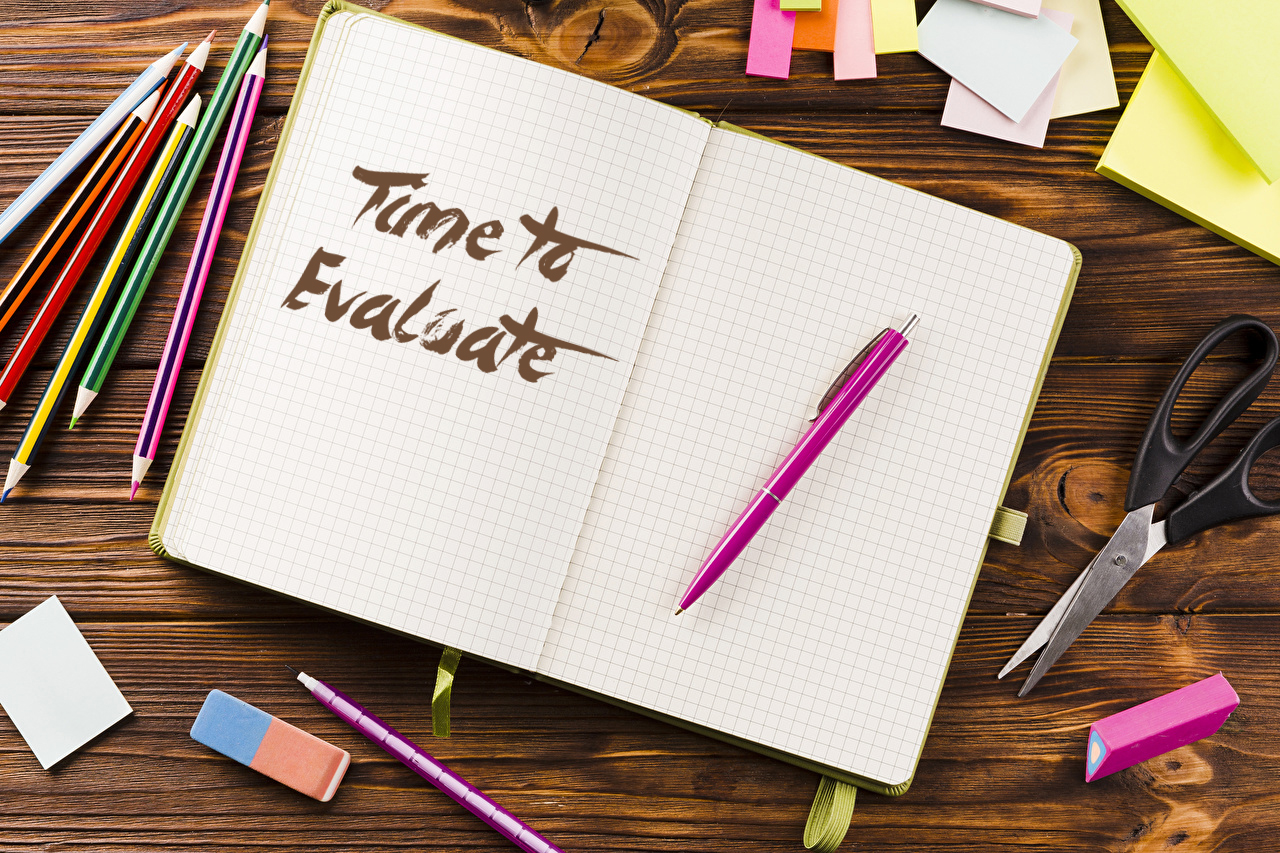
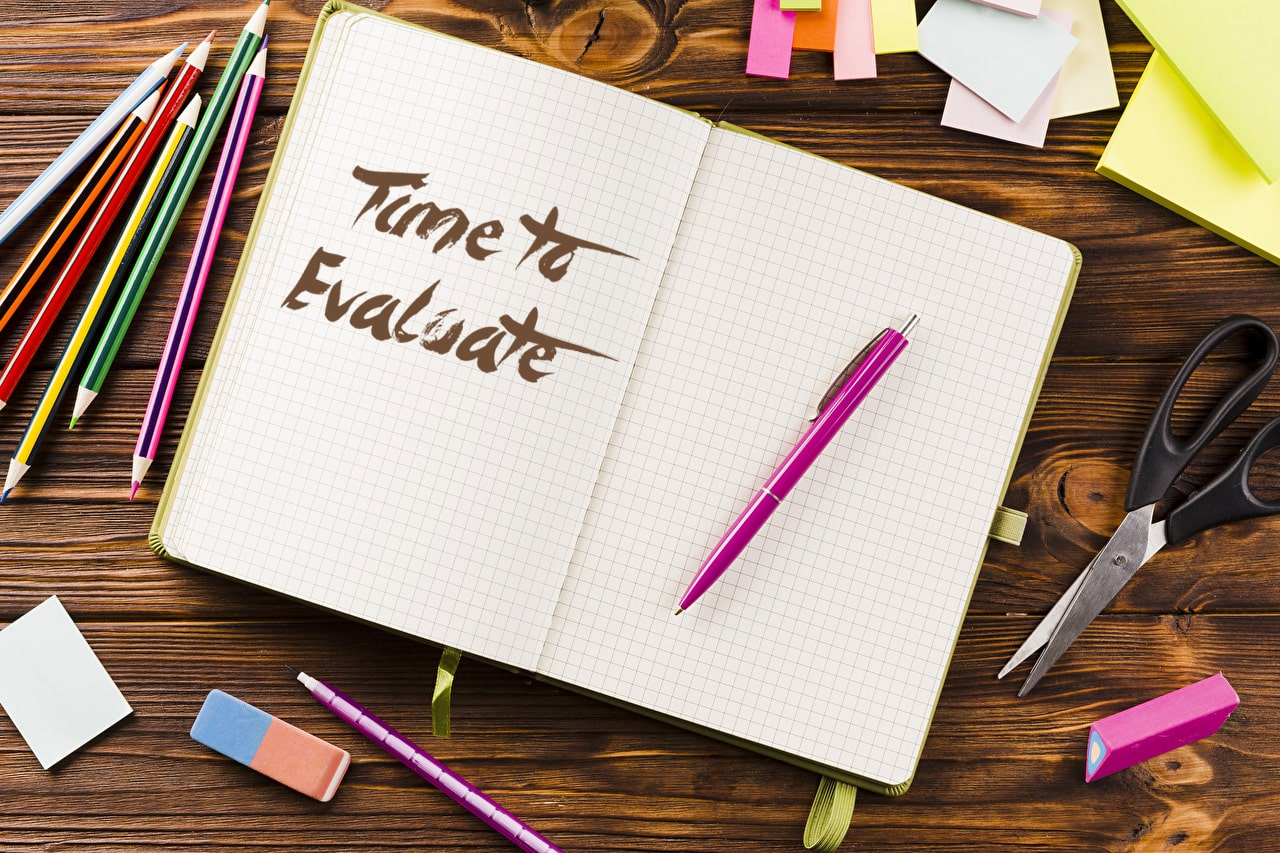
login design not finished. compress images

diff --git a/public/css/custom/login/login.min.css b/public/css/custom/login/login.min.css
@@ -1,1 +1,1 @@
-.background{opacity:.8;pointer-events:none;position:fixed;width:100%;height:100vh;z-index:-1}.login{min-height:100vh;width:100vw;background-position:center}.custom-row{position:relative;z-index:0;padding:7% 0;background-color:rgba(233,219,193,.5)}.custom-col{justify-content:center}.w-border{border:solid}.cntr-custom{position:relative;top:6vmin}.form-control{background-color:#e9dbc1!important}.btn-login{margin-top:4vh;width:25%;background-color:#e9dbc1;border-color:#014421;color:#000}.btn-login:hover{background-color:#014421;border-color:#014421;color:#e9dbc1}.form-background{box-shadow:0 0 8px 2px rgba(0,0,0,.8);background:#7b1113;width:80%;padding:6% 9%}.form-background label{color:#e9dbc1;font-size:2rem}.form-background span{color:#e9dbc1}.form-background small{color:#e9dbc1;font-style:italic;font-size:1.2rem}.form-background a:hover{text-decoration:underline}.form-background i{color:#e9dbc1;font-size:2rem;position:absolute;bottom:2vh;left:50%;transform:translateX(-50%)}.r-content{margin:0 2%;display:flex;flex-direction:column;justify-content:center;align-items:center;text-align:center}.r-content img{width:50vmin}.r-content bold{font-size:4.5vmin;font-weight:500;font-family:Raleway,sans-serif}.r-content .days,.r-content .time{font-family:'Noto Serif JP',serif;font-weight:400;font-size:10vmin}.r-content .closed{font-size:12vmin;font-weight:600;font-family:Raleway,sans-serif}
+.background{opacity:.8;pointer-events:none;position:fixed;width:100%;height:100vh;z-index:-1}.login{min-height:100vh;width:100vw;background-position:center}.custom-row{position:relative;z-index:0;padding:7% 0;background-color:rgba(233,219,193,.5)}.custom-col{justify-content:center}.w-border{border:solid}.cntr-custom{position:relative;top:6vmin}.form-control{background-color:#e9dbc1!important}.btn-login{margin-top:4vh;width:25%;background-color:#e9dbc1;border-color:#014421;color:#000}.btn-login:hover{background-color:#014421;border-color:#014421;color:#e9dbc1}.form-background{box-shadow:0 0 8px 2px rgba(0,0,0,.8);background:#7b1113;width:80%;padding:6% 9%}.form-background label{color:#e9dbc1;font-size:2rem}.form-background span{color:#e9dbc1}.form-background small{color:#e9dbc1;font-style:italic;font-size:1.2rem}.form-background a:hover{text-decoration:underline}.form-background i{color:#e9dbc1;font-size:2rem;position:absolute;bottom:2vh;left:50%;transform:translateX(-50%)}.r-content{margin:0 2%;display:flex;flex-direction:column;justify-content:center;align-items:center;text-align:center}.stopwatch{margin:auto;width:50%;position:absolute;top:0;left:50%;transform:translateX(-50%);z-index:-1;opacity:.6}.r-content bold{font-size:4.5vmin;font-weight:500;font-family:Raleway,sans-serif;z-index:1}.r-content .days,.r-content .time{font-family:'Noto Serif JP',serif;font-weight:400;font-size:10vmin}.r-content .closed{font-size:12vmin;font-weight:600;font-family:Raleway,sans-serif}

diff --git a/public/css/custom/login/login.css b/public/css/custom/login/login.css
@@ -97,15 +97,23 @@
     align-items: center;
     text-align: center;
 }
-.r-content img {
-    /* width: 70%; */
-    width: 50vmin;
-}
+
+.stopwatch {
+    margin: auto;
+    width: 50%;
+    position: absolute;
+    top: 0;
+    left: 50%;
+    transform: translateX(-50%);
+    z-index: -1;
+    opacity: 0.6;
+}  
 
 .r-content bold {
     font-size: 4.5vmin;
     font-weight: 500;
     font-family: 'Raleway', sans-serif;
+    z-index: 1;
 }
 
 .r-content .time , .r-content .days{

diff --git a/app/Views/user_mgt/login.php b/app/Views/user_mgt/login.php
@@ -7,11 +7,13 @@
           <div class="row custom-row">
             <div class="d-flex col-md-6 s-col justify-content-center align-middle">
               <div class="r-content">
-                  <?php if (isset($evaluation_info)):?>
+                  <?php if (isset($evaluation_info)):?>                    
                     <bold>Evaluation period closes in</bold>
                     <bold class="days"><?=$daysLeft?> days</bold>
                     <bold>and</bold>
                     <bold class="time"><?=$timeLeft?></bold>
+
+                    <img class="stopwatch" src="<?=base_url()?>/public/images/stopwatch.png" alt="">
                   <?php else:?>
                     <span style="display: none;" id="eval_status"></span>
                     <bold class="closed">CLOSED</bold>

diff --git a/app/Views/template/default.php b/app/Views/template/default.php
@@ -23,6 +23,7 @@
     <link href="https://fonts.googleapis.com/css2?family=Raleway:ital,wght@0,100;0,200;0,300;0,400;0,500;0,600;0,700;0,800;0,900;1,100;1,200;1,300;1,400;1,500;1,600;1,700;1,800;1,900&display=swap" rel="stylesheet">
 
     <link rel="stylesheet" href="https://cdn.jsdelivr.net/npm/bootstrap-icons@1.4.0/font/bootstrap-icons.css">
+    <link rel="stylesheet" href="https://cdnjs.cloudflare.com/ajax/libs/font-awesome/4.7.0/css/font-awesome.css" />
 
     <link href="<?=base_url()?>/public/css/custom/styles.css" rel="stylesheet">
     <link href="<?=base_url()?>/public/css/custom/modalAddition.css" rel="stylesheet">
